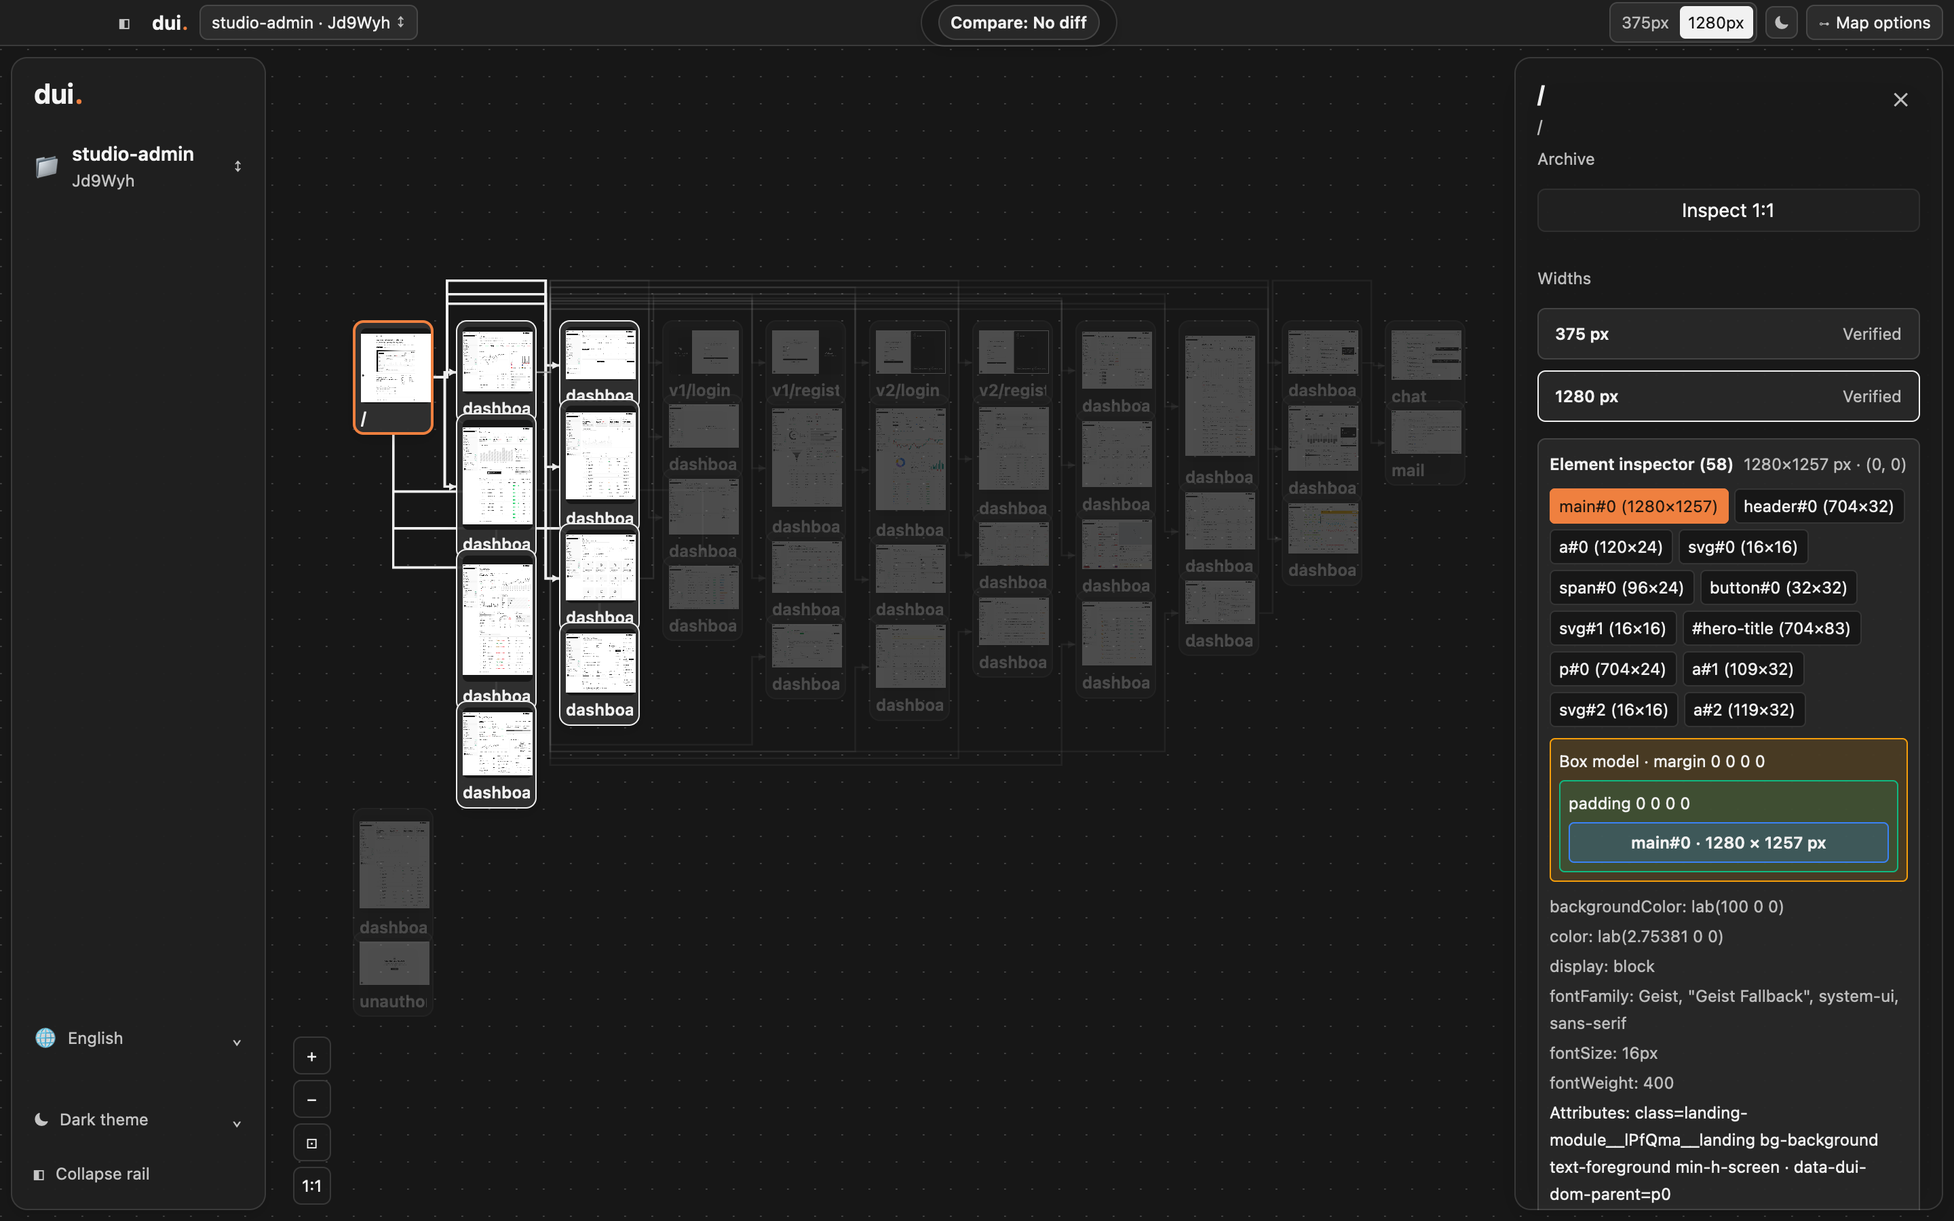
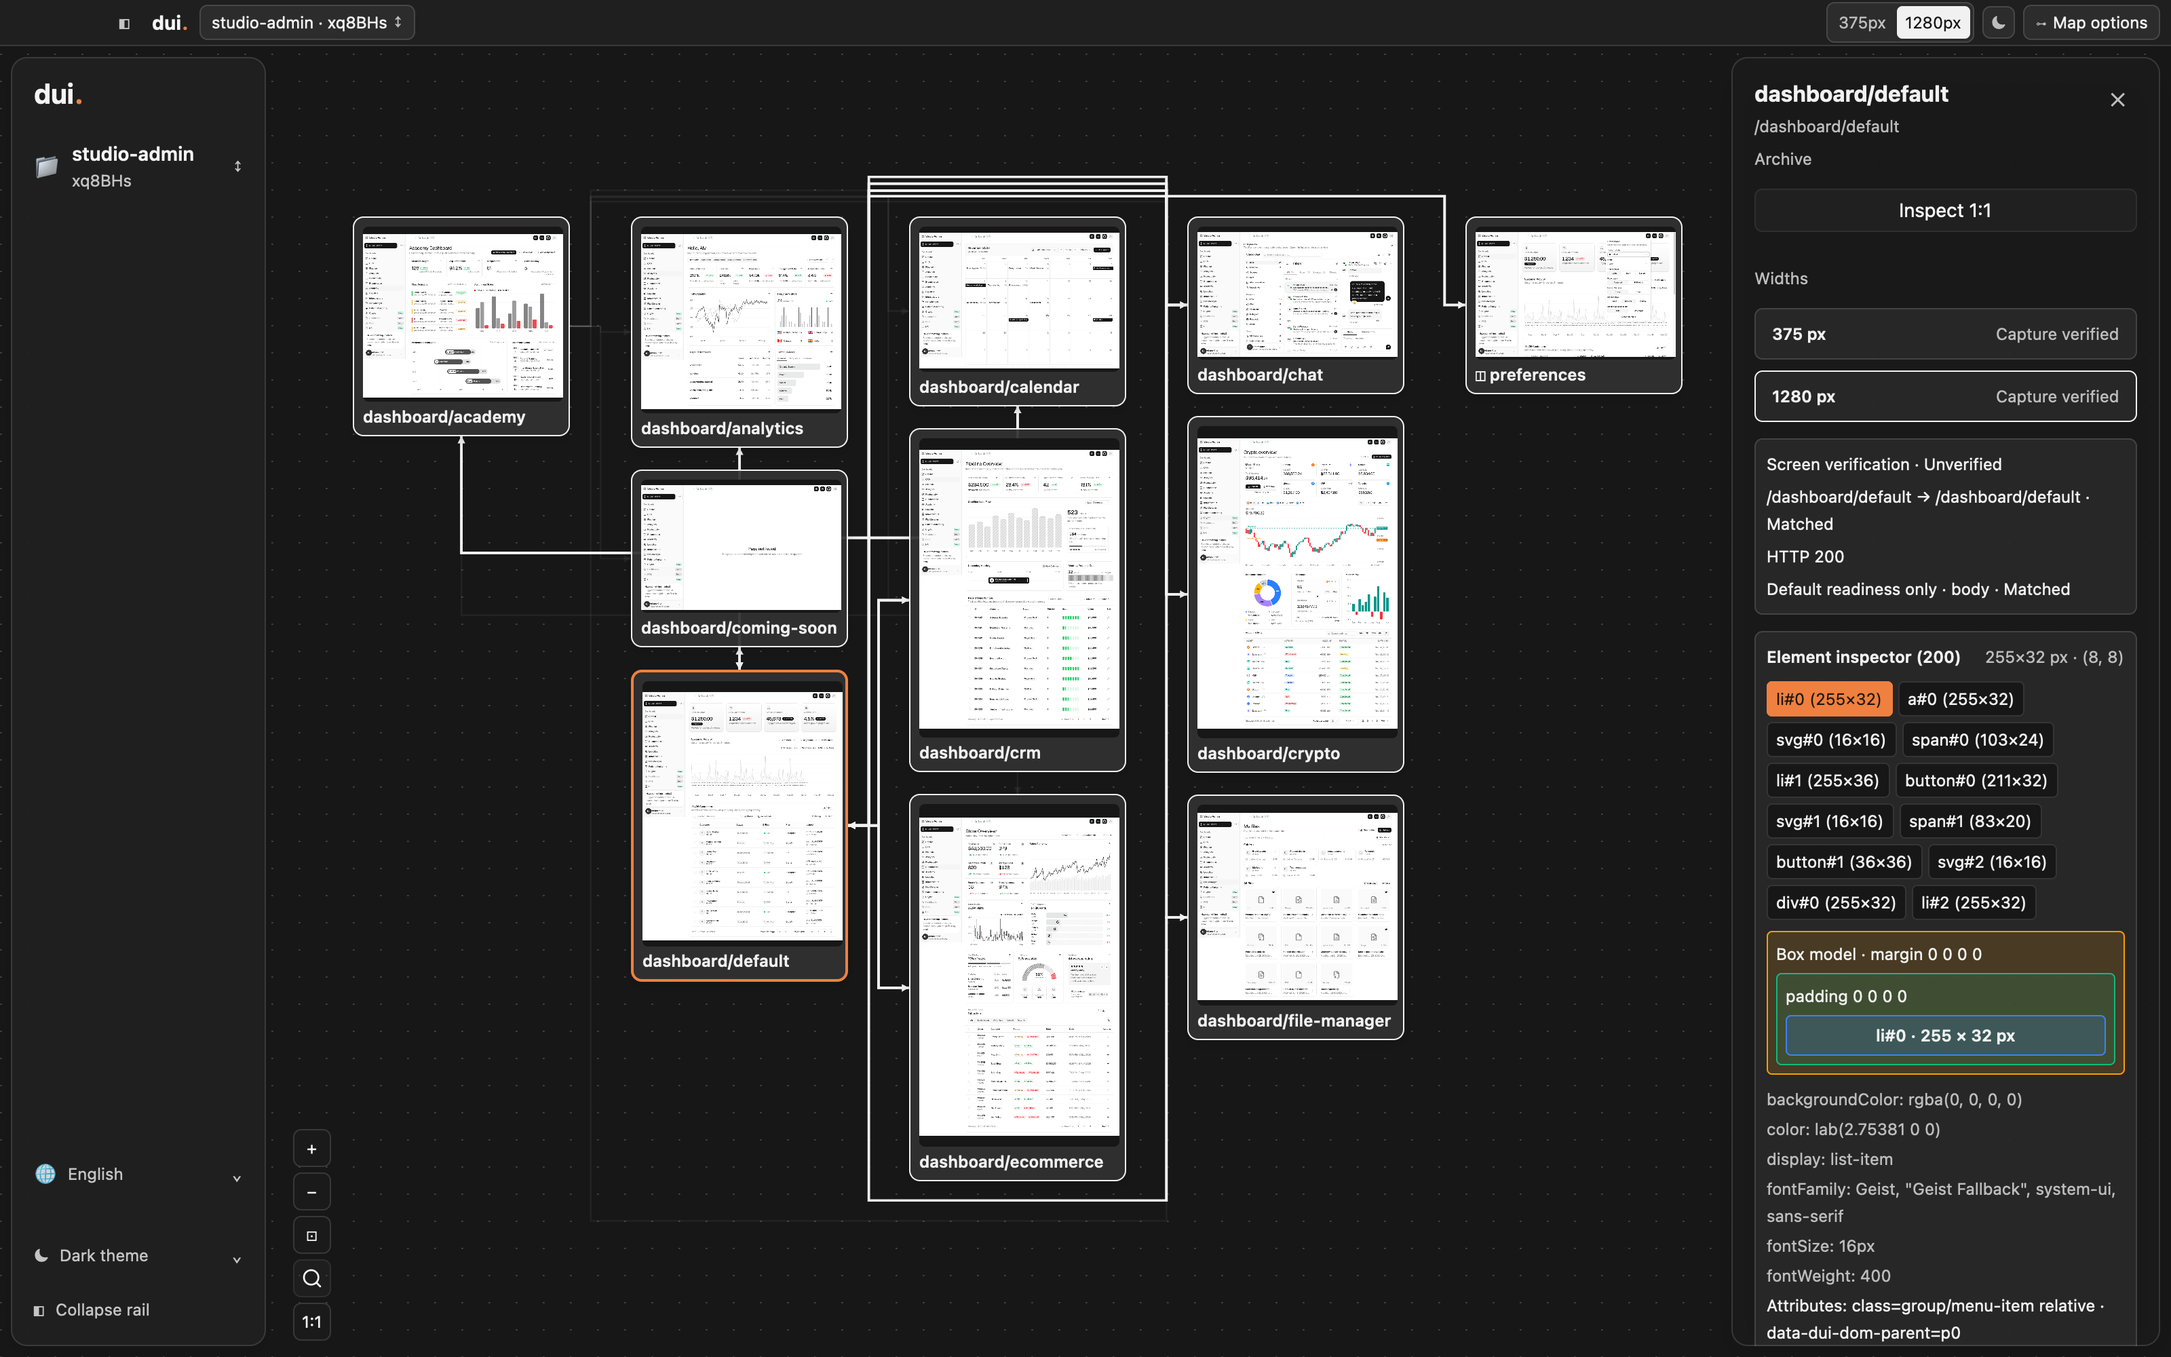
chore(site,desktop): refresh homepage showcase screenshots and fix desktop NativeSource line formatting

diff --git a/site/site.js b/site/site.js
@@ -84,6 +84,36 @@
         "dui never invents screenshots or forces hardcoded aesthetic opinions onto diverse design systems.",
       factStatesTitle: "Honest verification states",
       factConformanceTitle: "Pluggable design conformance (v0.3.0)",
+      tabOverview: "2D Screen Map",
+      tabOverviewAlt:
+        "dui 2D Web Canvas showing 11 full-page dashboard screens and a Preferences modal child node with obstacle-free gutter edges",
+      tabOverviewCaption:
+        "2D Web Canvas (dui open): Full-page true-aspect screens, auto-discovered modal/drawer child nodes, quick search, minimap, and obstacle-free gutter routing.",
+      tabInspector: "Modal + Inspector",
+      tabInspectorAlt:
+        "dui Element Inspector displaying Element frames, Alignment guides, DevTools box model, computed oklch styles, and highlighted verified edge to the Theme Settings drawer",
+      tabInspectorCaption:
+        "Modal & Element Inspector: Auto-captured Theme Settings drawer with Element frames, Alignment guides, DevTools box model, and computed oklch styles.",
+      tabDiff: "2D Inline Diff",
+      tabDiffAlt:
+        "dui 2D Inline Diff highlighting element-level changes on the map alongside Before, After, and Pixel difference overlays in the inspector",
+      tabDiffCaption:
+        "2D Inline Diff: Compare captures directly on the map with element-level change highlights, pixel-difference overlays, and screen verification evidence.",
+      tabSourcePreview: "SwiftUI & Compose",
+      tabSourcePreviewAlt:
+        "dui source map with compiled SwiftUI and Compose component cards and interactive switches in the inspector",
+      tabSourcePreviewCaption:
+        "Portable Source Preview: Compile self-contained SwiftUI and Compose entries with their official toolchains and operate observed switches directly on the map.",
+      tabDesktopOverview: "macOS Desktop",
+      tabDesktopOverviewAlt:
+        "dui native GPUI macOS desktop viewer with transparent TitleBar, 11-screen full-page map, screen search, and gutter edges",
+      tabDesktopOverviewCaption:
+        "Native GPUI Desktop (dui desktop): macOS transparent TitleBar, full-bleed Metal canvas, screen search, cursor-anchored continuous zoom, and gutter edges.",
+      tabDesktopInspector: "Desktop Inspector",
+      tabDesktopInspectorAlt:
+        "dui native GPUI desktop viewer showing selected dashboard screen with highlighted routes, screen verification, element tree, and box model",
+      tabDesktopInspectorCaption:
+        "Desktop Inspector: Clicking any card highlights connected routes and opens screen verification, the element tree, and box-model measurements.",
     },
     ko: {
       releaseGuide: "릴리스 문서",
@@ -147,6 +177,36 @@
         "dui는 스크린샷을 꾸며내지 않으며, 특정 디자인 기준을 강제하지 않습니다.",
       factStatesTitle: "정직한 검증 상태",
       factConformanceTitle: "플러그인형 디자인 적합성 (v0.3.0)",
+      tabOverview: "2D 화면 지도",
+      tabOverviewAlt:
+        "11개 전체 페이지 대시보드와 Preferences 모달 자식 노드, 거터 연결선이 보이는 dui 2D 웹 캔버스",
+      tabOverviewCaption:
+        "2D 웹 캔버스(dui open): 원본 비율 전체 페이지 캡처, 자동 발견된 모달·드로어 자식 노드, 빠른 검색, 미니맵, 겹침 없는 거터 연결선.",
+      tabInspector: "모달 · 인스펙터",
+      tabInspectorAlt:
+        "Theme Settings 드로어와 연결된 검증 선, 요소 프레임·정렬 가이드, 박스 모델, 계산된 oklch 스타일을 보여 주는 요소 인스펙터",
+      tabInspectorCaption:
+        "모달·요소 인스펙터: 자동 캡처한 Theme Settings 드로어에서 요소 프레임, 정렬 가이드, DevTools 박스 모델, 계산된 oklch 스타일을 확인합니다.",
+      tabDiff: "2D 인라인 Diff",
+      tabDiffAlt:
+        "지도 카드 위 요소 단위 변경 강조와 인스펙터의 이전·이후·픽셀 차이 오버레이를 함께 보여 주는 2D 인라인 Diff",
+      tabDiffCaption:
+        "2D 인라인 Diff: 지도 위에서 이전·이후 캡처를 바로 비교하고, 요소 단위 변경 표시·픽셀 차이 오버레이·화면 검증 근거를 함께 확인합니다.",
+      tabSourcePreview: "SwiftUI · Compose",
+      tabSourcePreviewAlt:
+        "공식 컴파일러로 빌드한 SwiftUI·Compose 컴포넌트 카드와 인스펙터의 조작 가능한 스위치를 보여 주는 소스 지도",
+      tabSourcePreviewCaption:
+        "포터블 소스 미리보기: SwiftUI·Compose 컴포넌트를 공식 툴체인으로 컴파일해, 관찰된 스위치를 지도 카드에서 바로 조작합니다.",
+      tabDesktopOverview: "macOS 데스크톱",
+      tabDesktopOverviewAlt:
+        "투명 TitleBar, 11개 전체 페이지 지도, 화면 검색, 거터 연결선을 갖춘 네이티브 GPUI macOS 데스크톱 뷰어",
+      tabDesktopOverviewCaption:
+        "네이티브 GPUI 데스크톱(dui desktop): macOS 투명 TitleBar, 풀블리드 Metal 캔버스, 화면 검색, 커서 기준 연속 줌, 겹침 없는 거터 연결선.",
+      tabDesktopInspector: "데스크톱 인스펙터",
+      tabDesktopInspectorAlt:
+        "선택한 대시보드 화면과 강조된 연결 경로, 화면 검증, 요소 트리, 박스 모델을 보여 주는 GPUI 데스크톱 인스펙터",
+      tabDesktopInspectorCaption:
+        "데스크톱 인스펙터: 카드를 선택하면 연결된 경로를 강조하고 화면 검증 결과, 요소 트리, 박스 모델 치수를 캔버스 좌표 이동 없이 띄웁니다.",
     },
     "zh-CN": {
       releaseGuide: "发布版文档",
@@ -210,8 +270,61 @@
         "dui 不会虚构截图，也不向不同的设计系统强加硬编码审美规则。",
       factStatesTitle: "诚实的验证状态",
       factConformanceTitle: "可插拔设计规范校验 (v0.3.0)",
+      tabOverview: "2D 界面地图",
+      tabOverviewAlt:
+        "展示 11 个整页仪表盘界面、Preferences 弹窗子节点和避让通道连线的 dui 2D Web 画布",
+      tabOverviewCaption:
+        "2D Web 画布（dui open）：按真实比例呈现整页截图，自动发现弹窗/抽屉子节点，支持快速搜索、缩略地图与避让卡片的通道连线。",
+      tabInspector: "弹窗与检查器",
+      tabInspectorAlt:
+        "展示 Theme Settings 抽屉、已验证连线、元素边框、对齐参考线、盒模型与 oklch 计算样式的 dui 元素检查器",
+      tabInspectorCaption:
+        "弹窗与元素检查器：在自动捕获的 Theme Settings 抽屉中查看元素边框、对齐参考线、DevTools 盒模型与计算后的 oklch 样式。",
+      tabDiff: "2D 内联差异",
+      tabDiffAlt:
+        "在界面地图卡片上高亮元素级变更，并在检查器中并排展示变更前、变更后与像素差异叠加层的 dui 2D 内联差异视图",
+      tabDiffCaption:
+        "2D 内联差异：直接在界面地图上对比两次捕获，高亮元素级变更，并查看像素差异叠加层与页面验证依据。",
+      tabSourcePreview: "SwiftUI 与 Compose",
+      tabSourcePreviewAlt:
+        "展示经官方工具链编译的 SwiftUI 与 Compose 组件卡片及检查器内可交互开关的 dui 源码地图",
+      tabSourcePreviewCaption:
+        "便携式源码预览：使用官方工具链编译自包含的 SwiftUI 与 Compose 组件，在界面地图卡片上直接操作已观测到的开关。",
+      tabDesktopOverview: "macOS 桌面端",
+      tabDesktopOverviewAlt:
+        "带有透明 TitleBar、11 个整页界面地图、界面搜索与避让通道连线的原生 GPUI macOS 桌面查看器",
+      tabDesktopOverviewCaption:
+        "原生 GPUI 桌面端（dui desktop）：macOS 透明 TitleBar、全出血 Metal 画布、界面搜索、以光标为锚点的连续缩放与通道连线。",
+      tabDesktopInspector: "桌面端检查器",
+      tabDesktopInspectorAlt:
+        "选中仪表盘界面后高亮关联路径并打开页面验证、元素树与盒模型测量的 GPUI 桌面检查器",
+      tabDesktopInspectorCaption:
+        "桌面端检查器：点击任意卡片即可高亮关联路径，并在不移动画布坐标的情况下打开页面验证、元素树与盒模型测量。",
     },
   };
+
+  const tabs = Array.from(document.querySelectorAll("[data-showcase-tab]"));
+  const img = document.querySelector("[data-showcase-img]");
+  const caption = document.querySelector("[data-showcase-caption]");
+  const syncShowcase = (tab) => {
+    if (!tab) return;
+    const dict = i18n[root.lang] || i18n.en;
+    const altKey = tab.getAttribute("data-alt-key");
+    const captionKey = tab.getAttribute("data-caption-key");
+    const alt = (altKey && dict[altKey]) || tab.getAttribute("data-alt") || "";
+    const text = (captionKey && dict[captionKey]) || tab.getAttribute("data-caption") || "";
+    if (img) {
+      img.setAttribute("src", tab.getAttribute("data-src") || "");
+      img.setAttribute("alt", alt);
+    }
+    if (caption) caption.textContent = text;
+  };
+  for (const tab of tabs) {
+    tab.addEventListener("click", () => {
+      for (const other of tabs) other.setAttribute("aria-selected", String(other === tab));
+      syncShowcase(tab);
+    });
+  }
 
   const langSelect = document.querySelector("[data-lang-select]");
   const applyLang = (lang) => {
@@ -229,6 +342,8 @@
       const filename = lang === "en" ? "README.md" : `README.${lang}.md`;
       guide.href = new URL(filename + guide.hash, guide.href).href;
     }
+    const activeTab = tabs.find((tab) => tab.getAttribute("aria-selected") === "true") || tabs[0];
+    syncShowcase(activeTab);
     if (langSelect && langSelect.value !== lang) langSelect.value = lang;
   };
   const params = new URLSearchParams(location.search);
@@ -255,20 +370,6 @@
       } catch {
         // Ignore clipboard errors in headless environments.
       }
-    });
-  }
-
-  const tabs = Array.from(document.querySelectorAll("[data-showcase-tab]"));
-  const img = document.querySelector("[data-showcase-img]");
-  const caption = document.querySelector("[data-showcase-caption]");
-  for (const tab of tabs) {
-    tab.addEventListener("click", () => {
-      for (const other of tabs) other.setAttribute("aria-selected", String(other === tab));
-      if (img) {
-        img.setAttribute("src", tab.getAttribute("data-src") || "");
-        img.setAttribute("alt", tab.getAttribute("data-alt") || "");
-      }
-      if (caption) caption.textContent = tab.getAttribute("data-caption") || "";
     });
   }
 

diff --git a/site/index.html b/site/index.html
@@ -94,8 +94,9 @@
             aria-selected="true"
             data-showcase-tab
             data-src="./assets/canvas-overview.png"
-            data-alt="dui 2D Web Canvas showing 42 full-page screens and modal child nodes with obstacle-free gutter edges"
-            data-caption="2D Web Canvas (dui open): Full-page true-aspect screens, auto-discovered modal/drawer child nodes, and obstacle-free gutter routing."
+            data-alt-key="tabOverviewAlt"
+            data-caption-key="tabOverviewCaption"
+            data-i18n="tabOverview"
           >
             2D Screen Map
           </button>
@@ -106,10 +107,37 @@
             aria-selected="false"
             data-showcase-tab
             data-src="./assets/canvas-inspector.png"
-            data-alt="dui Element Inspector displaying box model, computed oklch styles, and highlighted verified edge to a drawer overlay"
-            data-caption="Modal &amp; Element Inspector: Auto-captured Theme Settings drawer with DevTools box model, computed styles, and rendered element tree."
+            data-alt-key="tabInspectorAlt"
+            data-caption-key="tabInspectorCaption"
+            data-i18n="tabInspector"
           >
-            Modal + Element Inspector
+            Modal + Inspector
+          </button>
+          <button
+            class="tab-btn"
+            type="button"
+            role="tab"
+            aria-selected="false"
+            data-showcase-tab
+            data-src="./assets/canvas-diff.png"
+            data-alt-key="tabDiffAlt"
+            data-caption-key="tabDiffCaption"
+            data-i18n="tabDiff"
+          >
+            2D Inline Diff
+          </button>
+          <button
+            class="tab-btn"
+            type="button"
+            role="tab"
+            aria-selected="false"
+            data-showcase-tab
+            data-src="./assets/canvas-source-preview.png"
+            data-alt-key="tabSourcePreviewAlt"
+            data-caption-key="tabSourcePreviewCaption"
+            data-i18n="tabSourcePreview"
+          >
+            SwiftUI &amp; Compose
           </button>
           <button
             class="tab-btn"
@@ -118,10 +146,11 @@
             aria-selected="false"
             data-showcase-tab
             data-src="./assets/desktop-overview.png"
-            data-alt="dui native GPUI macOS desktop viewer with transparent TitleBar and 39-screen overview map"
-            data-caption="Native GPUI Desktop (dui desktop): macOS transparent TitleBar, full-bleed Metal canvas, cursor-anchored continuous zoom, and gutter edges."
+            data-alt-key="tabDesktopOverviewAlt"
+            data-caption-key="tabDesktopOverviewCaption"
+            data-i18n="tabDesktopOverview"
           >
-            Native macOS Desktop
+            macOS Desktop
           </button>
           <button
             class="tab-btn"
@@ -130,8 +159,9 @@
             aria-selected="false"
             data-showcase-tab
             data-src="./assets/desktop-inspector.png"
-            data-alt="dui native GPUI desktop viewer showing selected screen with floating glass Element Inspector and box model"
-            data-caption="Floating Glass Inspector: Clicking any card highlights connected routes and opens the box-model inspector without shifting canvas coordinates."
+            data-alt-key="tabDesktopInspectorAlt"
+            data-caption-key="tabDesktopInspectorCaption"
+            data-i18n="tabDesktopInspector"
           >
             Desktop Inspector
           </button>
@@ -141,12 +171,14 @@
           <img
             data-showcase-img
             src="./assets/canvas-overview.png"
-            alt="dui 2D Web Canvas showing 42 full-page screens and modal child nodes with obstacle-free gutter edges"
+            width="3200"
+            height="2000"
+            alt="dui 2D Web Canvas showing 11 full-page dashboard screens and a Preferences modal child node with obstacle-free gutter edges"
           />
         </div>
         <p class="showcase-caption" data-showcase-caption>
           2D Web Canvas (dui open): Full-page true-aspect screens, auto-discovered modal/drawer
-          child nodes, and obstacle-free gutter routing.
+          child nodes, quick search, minimap, and obstacle-free gutter routing.
         </p>
       </section>
 

diff --git a/apps/desktop/src/main.rs b/apps/desktop/src/main.rs
@@ -3090,19 +3090,18 @@ impl DuiDesktopView {
                         .text_color(p.muted_foreground),
                 );
             }
-            if !node.attributes.is_empty() {
+            let visible_attrs: Vec<_> = node
+                .attributes
+                .iter()
+                .filter(|(k, _)| !k.starts_with("data-dui-"))
+                .take(4)
+                .map(|(k, v)| format!("{k}={v}"))
+                .collect();
+            if !visible_attrs.is_empty() {
                 props_col = props_col.child(
-                    Label::new(format!(
-                        "{attr_label}: {}",
-                        node.attributes
-                            .iter()
-                            .take(4)
-                            .map(|(k, v)| format!("{k}={v}"))
-                            .collect::<Vec<_>>()
-                            .join(" · ")
-                    ))
-                    .text_xs()
-                    .text_color(p.foreground),
+                    Label::new(format!("{attr_label}: {}", visible_attrs.join(" · ")))
+                        .text_xs()
+                        .text_color(p.foreground),
                 );
             }
 
@@ -3379,8 +3378,12 @@ impl DuiDesktopView {
                                             .text_color(p.muted_foreground),
                                     )
                                     .when_some(screen.native_source.as_ref(), |header, origin| {
+                                        let location = match origin.line {
+                                            Some(line) => format!("{}:{line}", origin.source),
+                                            None => origin.source.clone(),
+                                        };
                                         header.child(
-                                            Label::new(format!("{}:{}", origin.source, origin.line))
+                                            Label::new(location)
                                                 .text_xs()
                                                 .text_color(p.muted_foreground),
                                         )

diff --git a/apps/desktop/src/store.rs b/apps/desktop/src/store.rs
@@ -83,7 +83,10 @@ impl ScreenItem {
             } else {
                 &origin.source
             };
-            return format!("{path}:{}", origin.line);
+            return match origin.line {
+                Some(line) => format!("{path}:{line}"),
+                None => path.to_owned(),
+            };
         }
         "No image".into()
     }
